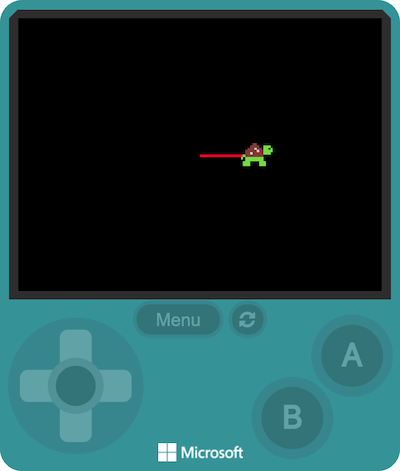
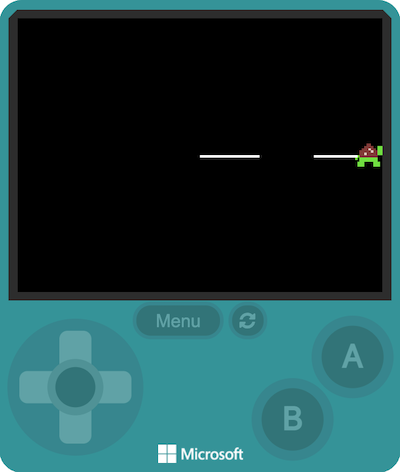
first cut of lesson

diff --git a/README.md b/README.md
@@ -1,12 +1,12 @@
 ### @explicitHints true
 
-# Turtle Logo - Lesson #4
+# Turtle Logo - Lesson #5
 
-## Turtle Logo - Lesson #4 @unplugged
-**Making the Turtle's Pen Change Color.**
+## Turtle Logo - Lesson #5 @unplugged
+**Making the Turtle's Pen Move Up and Down.**
 
-In this lesson you will change the color of the trail the **Turtle** leaves.
-![color](https://github.com/Mr-Coxall/makecode-arcade-turtle-logo-lesson4/raw/main/assets/color_screenshot.png)
+In this lesson you will make the **Turtle** lift it's pen up and down.
+![color](https://github.com/Mr-Coxall/makecode-arcade-turtle-logo-lesson5/raw/main/assets/pen_up_screenshot.png)
 
 ## Step 1
 ** Follow Along**
@@ -19,66 +19,81 @@ turtle.showTurtle()
 ## Step 2
 ** Follow Along**
 
-The **Turtle** by default leaves a white trail behind it. This color can be changed by using the ⇢set turtle's pen color to ▢⇠ block.
+Previously we have learned how to make the **Turtle** move around the game console and leave a trail. But sometimes we might not want to leave a trail, then what?
 ```blocks
 turtle.showTurtle()
-turtle.setPenColor(1)
+turtle.moveTurtleDirection(TurtleDirection.Forward, 25)
 ```
 
 ## Step 3
 ** Follow Along**
 
-Inside the ⇢set turtle's pen color to ▢⇠ block, select the "▢" and select *red*. Now add a ⇢myTurtle move forward 25 steps⇠ block to see the new red trail.
+To solve this problem you use the ⇢set turtle's pen up⇠ block. As the name implies, it lifts the **Turtle's** pen up
 ```blocks
 turtle.showTurtle()
-turtle.setPenColor(2)
 turtle.moveTurtleDirection(TurtleDirection.Forward, 25)
+turtle.pen(TurtlePenMode.Up)
 ```
 
 ## Step 4
 ** Follow Along**
 
-You can even change the color more than once. After moving forwards, add another ⇢set turtle's pen color to ▢⇠ block and change the color to *blue* then add forwards again.
+Once the pen is up, if you move again no trail will be left behind.
 ```blocks
 turtle.showTurtle()
-turtle.setPenColor(2)
 turtle.moveTurtleDirection(TurtleDirection.Forward, 25)
-turtle.setPenColor(8)
+turtle.pen(TurtlePenMode.Up)
 turtle.moveTurtleDirection(TurtleDirection.Forward, 25)
 ```
 
-## Step 4
+## Step 5
+** Follow Along**
+
+You can also use the ⇢set turtle's pen up⇠ block again, and change the "up" to "down" to make it leave a trail again.
+```blocks
+turtle.showTurtle()
+turtle.moveTurtleDirection(TurtleDirection.Forward, 25)
+turtle.pen(TurtlePenMode.Up)
+turtle.moveTurtleDirection(TurtleDirection.Forward, 25)
+turtle.pen(TurtlePenMode.Down)
+turtle.moveTurtleDirection(TurtleDirection.Forward, 25)
+```
+## Step 6
 ** Try it Out**
 
-Now try moving the **Turtle** some different distances, different directions, turning and changing color.
+Now try moving the **Turtle** some different distances, different directions, turning, changing color and lifting it's pen up and down.
 ```blocks
 turtle.showTurtle()
 turtle.setPenColor(8)
-turtle.moveTurtleDirection(TurtleDirection.Backward, 25)
+turtle.moveTurtleDirection(TurtleDirection.Forward, 25)
 turtle.turnTurtleDirectionByDegrees(TurtleTurnDirection.Right, 90)
-turtle.setPenColor(2)
+turtle.pen(TurtlePenMode.Up)
 turtle.moveTurtleDirection(TurtleDirection.Forward, 50)
 turtle.turnTurtleDirectionByDegrees(TurtleTurnDirection.Left, 90)
 turtle.setPenColor(7)
+turtle.pen(TurtlePenMode.Down)
 turtle.moveTurtleDirection(TurtleDirection.Forward, 25)
 ```
 
-## Step 6
+## Step 7
 **Success!**
 
-You can now change the trail color the **Turtle** leaves.
+You can now change get the **Turtle** to lift the pen up and down.
 
-## Step 7
+## Step 8
 **Your Turn**
 
 Get your **Turtle** to:
 - move
 - change its trail color
 - turn
+- lift the pen up
 - move again
-- then say, "I can change colors!"
+- put the pen down
+- move again
+- then say, "I can lift my pen!"
 
-## Step 8
+## Step 9
 **Done**
 
 You have successfully completed your forth lesson in Turtle Logo.
